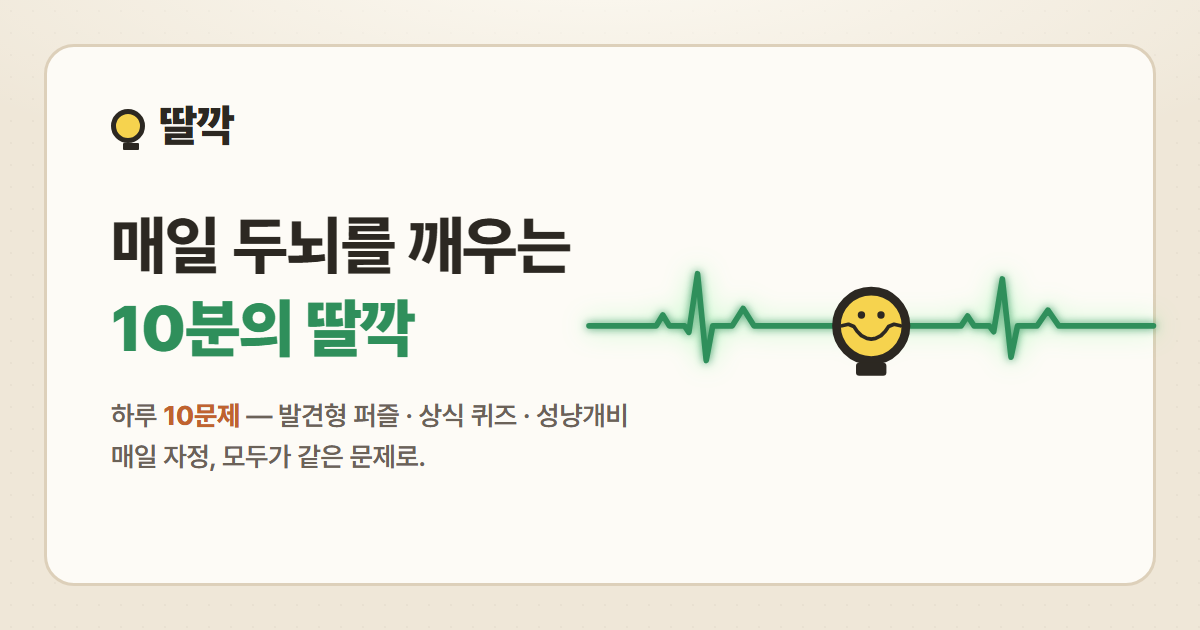
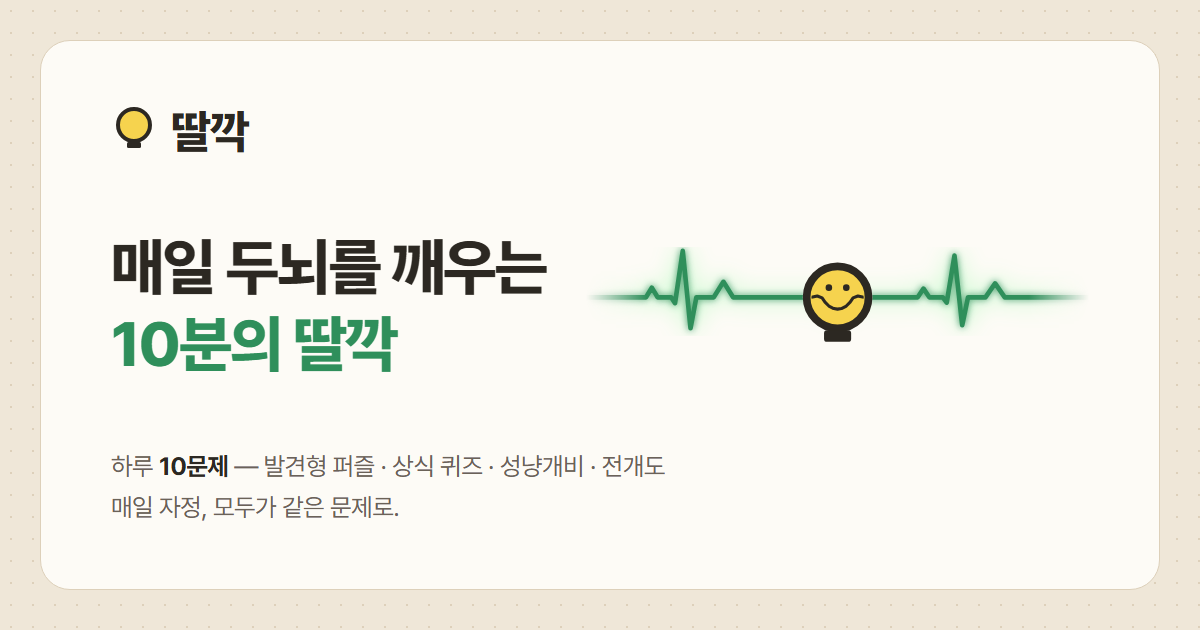
fix(og): 공유 카드에 전개도를 넣고, 손이 아니라 코드로 만든다 (#142)
카톡이나 트위터에 딸깍 링크를 붙이면 나오는 카드에 "발견형 퍼즐 ·
상식 퀴즈 · 성냥개비"까지만 적혀 있었다. 전개도를 추가할 때 이 PNG만
그대로 남았다.

손으로 만든 그림이라 아무도 모르고 지나갔다. 그래서 다시 그리는 대신
만드는 스크립트를 뒀다.

  node scripts/og-gen.mjs

전구와 심전도 파형은 Bulb.svelte의 정지 상태와 같은 좌표 수식을 쓴다.
색도 layout의 토큰을 그대로 옮겼다. 로고와 카드가 따로 놀지 않는다.

카드는 PNG라 기존 개수 검사가 못 본다. 대신 생성기 부제 줄에 적힌
유형 수가 DAILY_COUNTS의 유형 수와 같은지 센다. 유형을 하나 더 넣고
카드를 안 만들면 테스트가 먼저 걸린다. 전개도를 빼 보고 실제로
실패하는 것도 확인했다.

diff --git a/src/lib/counts.test.ts b/src/lib/counts.test.ts
@@ -1,7 +1,7 @@
 import { describe, it, expect } from 'vitest';
 import { PROBLEMS } from './problems';
 import { TRIVIA } from './trivia';
-import { MATCH_TOTAL, CUBE_TOTAL } from './game';
+import { MATCH_TOTAL, CUBE_TOTAL, DAILY_COUNTS } from './game';
 
 /**
  * 문제 수를 화면에 숫자로 박아두면, 문제를 추가할 때마다 그 화면만 옛 숫자로 남는다.
@@ -13,6 +13,11 @@ const PAGES: Record<string, string> = import.meta.glob(
 	{ query: '?raw', import: 'default', eager: true }
 );
 const LAYOUT: Record<string, string> = import.meta.glob('/src/routes/+layout.server.ts', {
+	query: '?raw',
+	import: 'default',
+	eager: true
+});
+const OG_GEN: Record<string, string> = import.meta.glob('/scripts/og-gen.mjs', {
 	query: '?raw',
 	import: 'default',
 	eager: true
@@ -49,5 +54,18 @@ describe('문제 수는 화면에 박아두지 않는다', () => {
 			expect(src, `${k}가 counts에 없다`).toContain(k);
 		expect(src).toContain('PROBLEMS.length');
 		expect(src).toContain('TRIVIA.length');
+	});
+
+	/* 공유 카드는 PNG라 위 검사가 못 본다. 유형이 하나 늘었을 때 카드만
+	   "발견형·상식·성냥개비"로 남아 있던 적이 있어, 생성기 문구를 대신 센다. */
+	it('공유 카드 생성기가 모든 유형을 적고 있다', () => {
+		const src = Object.values(OG_GEN)[0];
+		expect(src, 'scripts/og-gen.mjs를 못 읽었다').toBeTruthy();
+		const line = src.split('\n').find((l) => l.includes('하루 <b>10문제</b>'));
+		expect(line, '카드 부제 줄을 못 찾았다').toBeTruthy();
+		const listed = line!.split('—')[1].split('·').length;
+		expect(listed, `카드에 ${listed}개만 적혀 있다 — node scripts/og-gen.mjs 다시 돌릴 것`).toBe(
+			Object.keys(DAILY_COUNTS).length
+		);
 	});
 });
